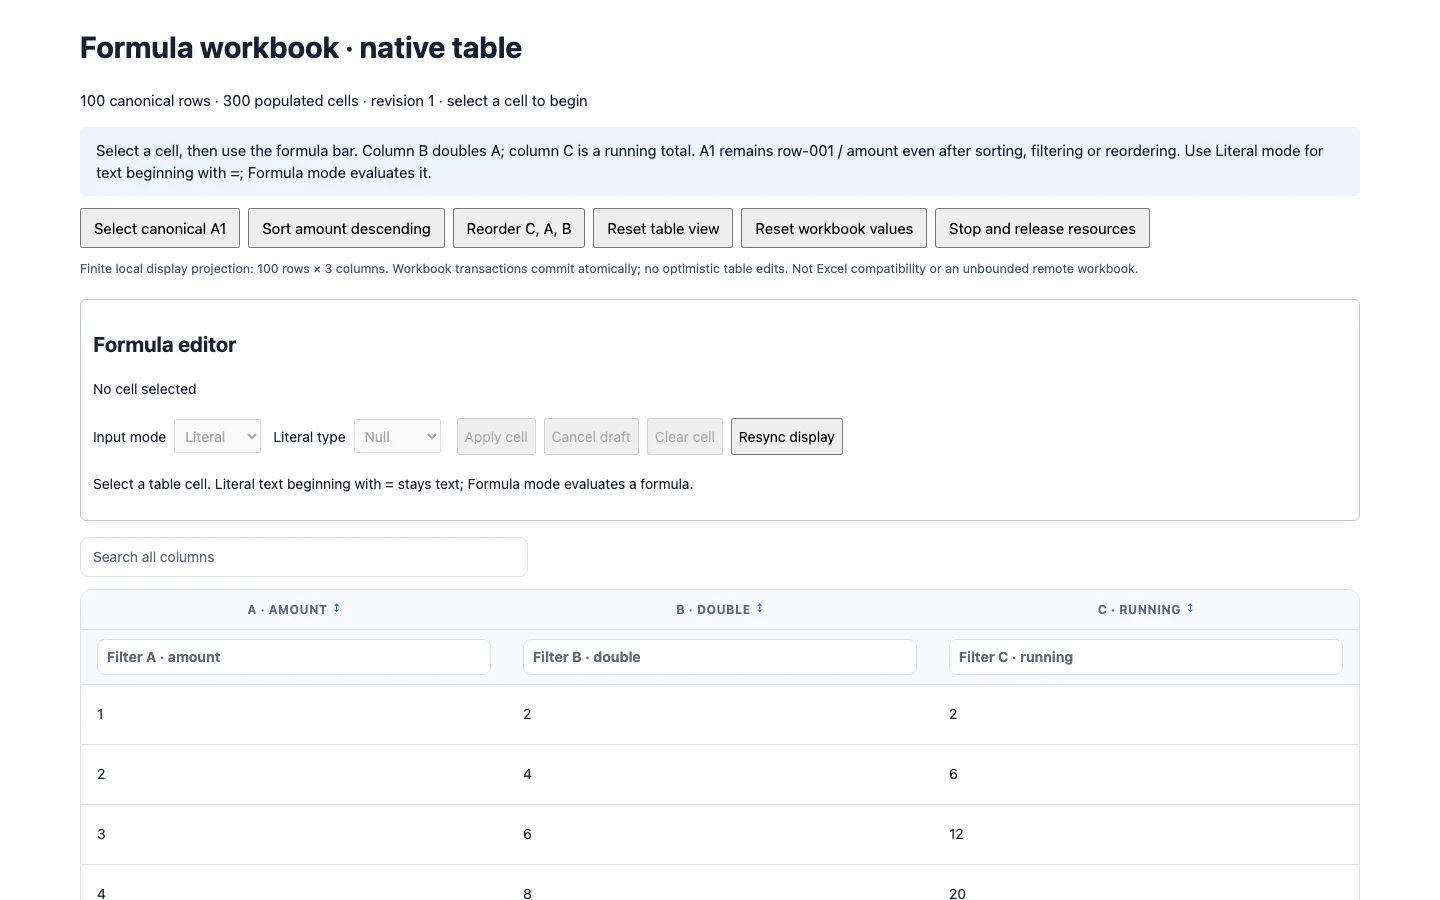
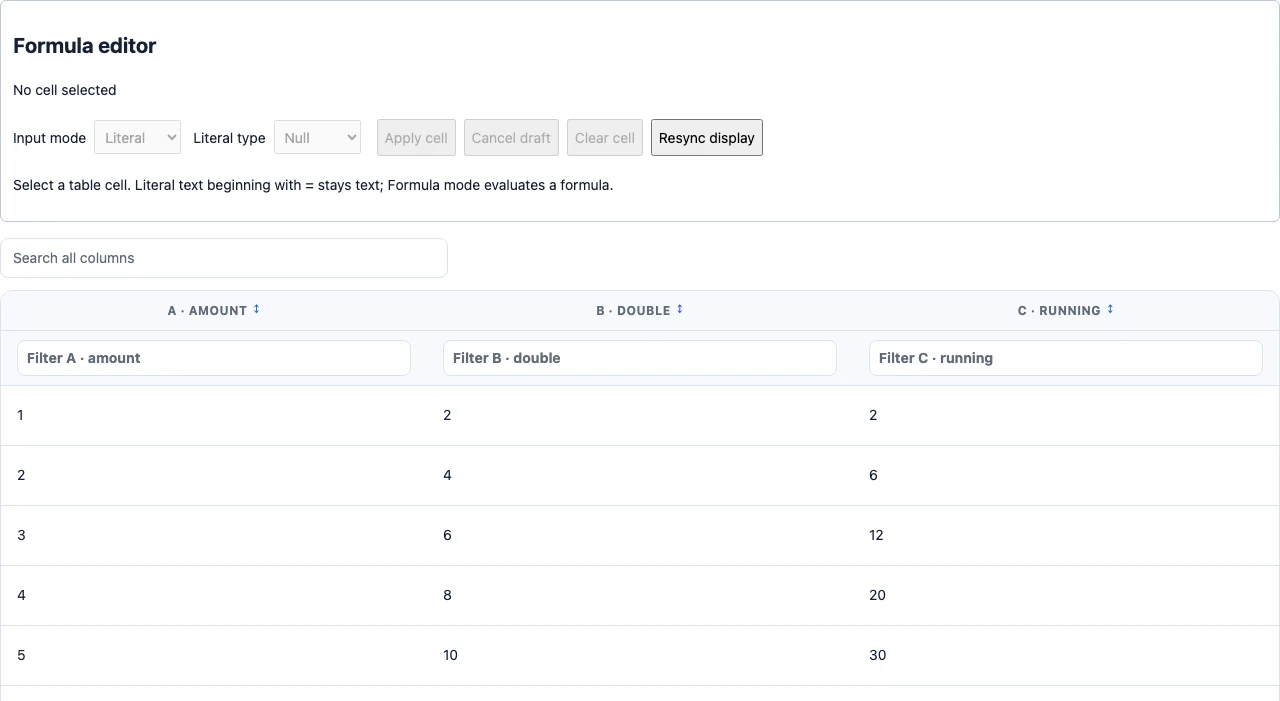
fix: replace debug preview captures

diff --git a/src/app/pages/premium-page.ts b/src/app/pages/premium-page.ts
@@ -1,19 +1,19 @@
 import { Component, signal } from '@angular/core';
 
 const PREMIUM_EXAMPLES = [
-  { id:'worker-processing', label:'Large data', title:'Dedicated-worker processing', description:'A real module worker retains 100,000 or 1,000,000 rows while the data table receives bounded pages and stays responsive.', image:'premium/worker-processing.webp', alt:'WTS Data Table dedicated-worker processing fixture displaying a virtualized large dataset', code:`import { createWorkerProcessingClient } from 'wts-data-table/worker-client';\nimport { createBrowserWorkerTransport } from 'wts-data-table/worker-browser';\nimport { createWorkerTableController } from 'wts-data-table/worker-table';\n\nconst license = await verifyDataTableLicense(entitlementToken);\nconst client = createWorkerProcessingClient({\n  license,\n  createTransport: () => createBrowserWorkerTransport(\n    new URL('./worker.js', import.meta.url), { license }\n  )\n});\nawait client.loadSnapshot(snapshot);\nconst bridge = createWorkerTableController({\n  license, client, blockSize: 100, maxBlocks: 3,\n  ...tableAdapter\n});\nawait bridge.refresh();` },
-  { id:'remote-viewport', label:'Server data', title:'Native remote viewport', description:'Request only visible blocks from an application-owned source while retaining a bounded row window, selection state, and native table interaction.', image:'premium/remote-viewport.webp', alt:'WTS Data Table native remote viewport fixture showing a 100,000-row remote dataset', code:`import { createRemoteViewportController } from 'wts-data-table/remote-viewport';\nimport { createRemoteRowModel } from 'wts-data-table/remote';\n\nconst model = createRemoteRowModel({\n  license, source, blockSize: 50, maxBlocks: 3\n});\nconst remote = createRemoteViewportController({\n  license, model, rowHeight: 60, maxWindowRows: 1000,\n  getState: () => table.getState(),\n  subscribe: listener => table.core.subscribe(listener),\n  setRowWindow: (window, options) => table.setRowWindow(window, options),\n  getViewportRange: () => table.getViewportRange(),\n  scrollToRow: index => table.scrollToRow(index)\n});\nawait remote.refresh();` },
-  { id:'formula-editor', label:'Spreadsheet logic', title:'Formula workbook and editor', description:'Keep canonical formulas stable while the table is sorted, filtered, or reordered, with an explicit formula bar and atomic commits.', image:'premium/formula-editor.webp', alt:'WTS Data Table formula workbook fixture showing formula controls and calculated table cells', code:`import { createFormulaWorkbook } from 'wts-data-table/formula-engine';\nimport { createFormulaTableBridge } from 'wts-data-table/formula-table';\nimport { createFormulaEditor } from 'wts-data-table/formula-editor';\n\nconst workbook = createFormulaWorkbook({\n  license, rowIds, columnIds\n});\nconst bridge = createFormulaTableBridge({\n  license, workbook, table\n});\nconst editor = createFormulaEditor({\n  license, container: formulaHost, bridge\n});` },
+  { id:'worker-processing', label:'Large data', title:'Dedicated-worker processing', description:'A real module worker retains 100,000 or 1,000,000 rows while the data table receives bounded pages and stays responsive.', image:'premium/worker-processing.webp', alt:'WTS Data Table displaying rows processed by a dedicated worker', code:`import { createWorkerProcessingClient } from 'wts-data-table/worker-client';\nimport { createBrowserWorkerTransport } from 'wts-data-table/worker-browser';\nimport { createWorkerTableController } from 'wts-data-table/worker-table';\n\nconst license = await verifyDataTableLicense(entitlementToken);\nconst client = createWorkerProcessingClient({\n  license,\n  createTransport: () => createBrowserWorkerTransport(\n    new URL('./worker.js', import.meta.url), { license }\n  )\n});\nawait client.loadSnapshot(snapshot);\nconst bridge = createWorkerTableController({\n  license, client, blockSize: 100, maxBlocks: 3,\n  ...tableAdapter\n});\nawait bridge.refresh();` },
+  { id:'remote-viewport', label:'Server data', title:'Native remote viewport', description:'Request only visible blocks from an application-owned source while retaining a bounded row window, selection state, and native table interaction.', image:'premium/remote-viewport.webp', alt:'WTS Data Table rendering a bounded window from a remote dataset', code:`import { createRemoteViewportController } from 'wts-data-table/remote-viewport';\nimport { createRemoteRowModel } from 'wts-data-table/remote';\n\nconst model = createRemoteRowModel({\n  license, source, blockSize: 50, maxBlocks: 3\n});\nconst remote = createRemoteViewportController({\n  license, model, rowHeight: 60, maxWindowRows: 1000,\n  getState: () => table.getState(),\n  subscribe: listener => table.core.subscribe(listener),\n  setRowWindow: (window, options) => table.setRowWindow(window, options),\n  getViewportRange: () => table.getViewportRange(),\n  scrollToRow: index => table.scrollToRow(index)\n});\nawait remote.refresh();` },
+  { id:'formula-editor', label:'Spreadsheet logic', title:'Formula workbook and editor', description:'Keep canonical formulas stable while the table is sorted, filtered, or reordered, with an explicit formula bar and atomic commits.', image:'premium/formula-editor.webp', alt:'WTS Data Table formula editor and calculated table cells', code:`import { createFormulaWorkbook } from 'wts-data-table/formula-engine';\nimport { createFormulaTableBridge } from 'wts-data-table/formula-table';\nimport { createFormulaEditor } from 'wts-data-table/formula-editor';\n\nconst workbook = createFormulaWorkbook({\n  license, rowIds, columnIds\n});\nconst bridge = createFormulaTableBridge({\n  license, workbook, table\n});\nconst editor = createFormulaEditor({\n  license, container: formulaHost, bridge\n});` },
 ] as const;
 
 @Component({
   template: `
-    <section class="page-hero wrap"><span class="kicker">Licensed advanced examples</span><h1>Real systems.<br><em>Real screenshots.</em></h1><p>Every preview below is captured from the repository’s working validation fixture. Each example includes the actual package imports used to build it.</p></section>
-    <section class="premium-list wrap">@for(item of examples;track item.id){<article><div class="premium-copy"><span class="kicker">{{ item.label }}</span><h2>{{ item.title }}</h2><p>{{ item.description }}</p><div class="code-block"><div><span>TypeScript</span><button type="button" (click)="copy(item.code,item.id)">{{ copied()===item.id?'Copied':'Copy code' }}</button></div><pre><code>{{ item.code }}</code></pre></div></div><figure><img [src]="item.image" [alt]="item.alt" width="1440" height="900" loading="lazy"><figcaption>Actual local product fixture · captured during website verification</figcaption></figure></article>}</section>
-    <section class="premium-boundary wrap"><strong>Release boundary</strong><p>These capabilities exist in the current repository but are not part of the already-published 1.0.1 artifact. Publish and production certification remain separate release steps; this page does not claim that npm 1.0.1 contains them.</p></section>
+    <section class="page-hero wrap"><span class="kicker">Licensed advanced examples</span><h1>Real systems.<br><em>Real screenshots.</em></h1><p>Every preview is captured from an actual running package component and cropped to the product UI only. Each example includes the package imports used to build it.</p></section>
+    <section class="premium-list wrap">@for(item of examples;track item.id){<article><div class="premium-copy"><span class="kicker">{{ item.label }}</span><h2>{{ item.title }}</h2><p>{{ item.description }}</p><div class="code-block"><div><span>TypeScript</span><button type="button" (click)="copy(item.code,item.id)">{{ copied()===item.id?'Copied':'Copy code' }}</button></div><pre><code>{{ item.code }}</code></pre></div></div><figure><img [src]="item.image" [alt]="item.alt" width="1440" height="900" loading="lazy"><figcaption>Real WTS Data Table component · no mockup</figcaption></figure></article>}</section>
+    <section class="premium-boundary wrap"><strong>Release boundary</strong><p>These capabilities ship in <code>wts-data-table</code> 1.0.2 and later under normal feature-named imports. Executable advanced factories require a verified signed entitlement; there is no separate Pro package or <code>/premium</code> import path.</p></section>
   `,
   styles: [`
-    .premium-list{display:grid;gap:7rem}.premium-list article{display:grid;grid-template-columns:minmax(320px,.72fr) minmax(0,1.28fr);gap:4rem;align-items:center}.premium-list article:nth-child(even){grid-template-columns:minmax(0,1.28fr) minmax(320px,.72fr)}.premium-list article:nth-child(even) .premium-copy{order:2}.premium-list h2{margin:.7rem 0 1rem;font-size:clamp(2.2rem,4vw,4rem);letter-spacing:-.06em}.premium-copy>p{color:var(--muted);line-height:1.75}.premium-list figure{margin:0;overflow:hidden;border:1px solid var(--line);border-radius:12px;background:#e8edf5;box-shadow:0 28px 70px rgba(24,35,52,.13)}.premium-list img{display:block;width:100%;height:auto;aspect-ratio:16/10;object-fit:cover;object-position:top left}.premium-list figcaption{padding:.7rem 1rem;background:white;color:var(--muted);font:.65rem var(--mono);text-transform:uppercase}.code-block{margin-top:1.5rem;overflow:hidden;border-radius:10px;background:#121a28;color:#d7e0ee}.code-block>div{display:flex;justify-content:space-between;padding:.7rem .9rem;border-bottom:1px solid #2e394a;color:#8ea0b8;font:.65rem var(--mono)}.code-block button{border:0;background:transparent;color:var(--lime);cursor:pointer}.code-block pre{max-height:280px;margin:0;padding:1rem;overflow:auto;font:.7rem/1.65 var(--mono)}.premium-boundary{margin-top:5rem;padding:1.2rem;border:1px solid #e6d19f;border-radius:10px;background:#fff8e6}.premium-boundary p{margin:.45rem 0 0;color:var(--muted);line-height:1.65}
+    .premium-list{display:grid;gap:7rem}.premium-list article{display:grid;grid-template-columns:minmax(320px,.72fr) minmax(0,1.28fr);gap:4rem;align-items:center}.premium-list article:nth-child(even){grid-template-columns:minmax(0,1.28fr) minmax(320px,.72fr)}.premium-list article:nth-child(even) .premium-copy{order:2}.premium-list h2{margin:.7rem 0 1rem;font-size:clamp(2.2rem,4vw,4rem);letter-spacing:-.06em}.premium-copy>p{color:var(--muted);line-height:1.75}.premium-list figure{margin:0;overflow:hidden;border:1px solid var(--line);border-radius:12px;background:white;box-shadow:0 28px 70px rgba(24,35,52,.13)}.premium-list img{display:block;width:100%;height:auto}.premium-list figcaption{padding:.7rem 1rem;background:white;color:var(--muted);font:.65rem var(--mono);text-transform:uppercase}.code-block{margin-top:1.5rem;overflow:hidden;border-radius:10px;background:#121a28;color:#d7e0ee}.code-block>div{display:flex;justify-content:space-between;padding:.7rem .9rem;border-bottom:1px solid #2e394a;color:#8ea0b8;font:.65rem var(--mono)}.code-block button{border:0;background:transparent;color:var(--lime);cursor:pointer}.code-block pre{max-height:280px;margin:0;padding:1rem;overflow:auto;font:.7rem/1.65 var(--mono)}.premium-boundary{margin-top:5rem;padding:1.2rem;border:1px solid #e6d19f;border-radius:10px;background:#fff8e6}.premium-boundary p{margin:.45rem 0 0;color:var(--muted);line-height:1.65}
     @media(max-width:900px){.premium-list article,.premium-list article:nth-child(even){grid-template-columns:1fr;gap:2rem}.premium-list article:nth-child(even) .premium-copy{order:0}}
   `],
 })
